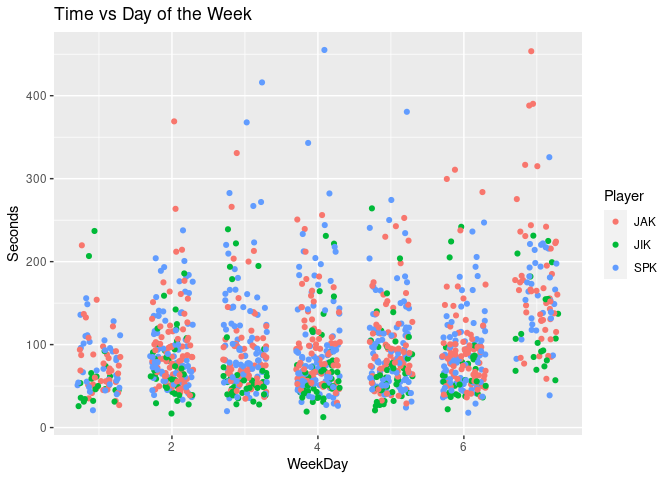
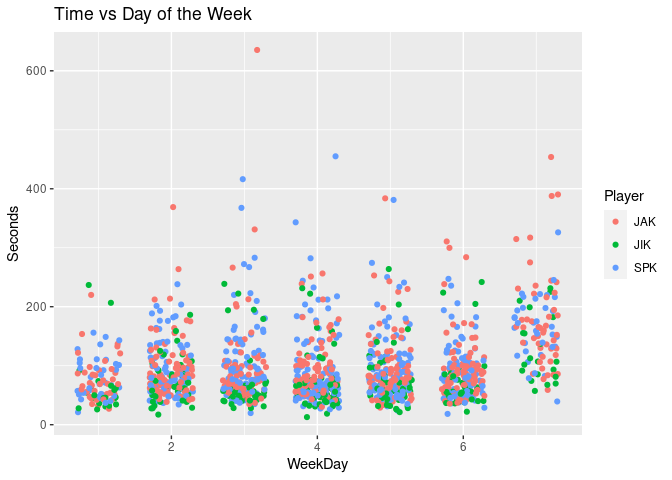
Fixed up assert tests, added MBH as player

diff --git a/analysis/nyt_mini_crossword.md b/analysis/nyt_mini_crossword.md
@@ -1,10 +1,11 @@
 ---
 title: "New York Time Mini Crossword"
 author: "Stephen Kaluzny"
-date: "18 December, 2021"
+date: "13 January, 2022"
 output:
-  html_document:
-    keep_md: true
+  html_document: 
+    keep_md: yes
+    theme: cerulean
 ---
 
 
@@ -105,17 +106,18 @@ First, set some values that are expected in the data:
 
 ```r
 # Current list of players:
-players <- c("SPK", "JAK", "JIK", "BBK", "SKK", "AKK")
+players <- c("SPK", "JAK", "JIK", "BBK", "SKK", "AKK", "MBH")
 # Earliest date:
 first_date <- as.Date("2017-09-25")
 # Upper bound on time (10 minutes = 600 seconds):
-time_bound <- 600
+time_bound <- 700
 ```
 
 Check that Player is one of 5 possible values:
 
 ```r
-d %>% assert(in_set(players), Player) %>% success_logical()
+d %>% assert(in_set(players), Player, success_fun=success_logical,
+  error_fun=error_logical)
 ```
 
 ```
@@ -145,7 +147,8 @@ d %>% group_by(Date) %>% count(Player) %>% verify(n == 1) %>% success_logical()
 Check for proper time values:
 
 ```r
-d %>% assertr::verify(Seconds > 0 & Seconds < time_bound) %>% success_logical()
+d %>% assertr::verify(Seconds > 0 & Seconds < time_bound,
+  success_fun=success_logical, error_fun=error_logical)
 ```
 
 ```
@@ -158,7 +161,8 @@ Check range of dates
 first_date <- as.Date("2017-09-25")
 today <- Sys.Date()
 d %>% 
-  assertr::verify(Date >= first_date & Date <= today) %>% success_logical()
+  assertr::verify(Date >= first_date & Date <= today, success_fun=success_logical,
+    error_fun=error_logical)
 ```
 
 ```
@@ -167,7 +171,7 @@ d %>%
 
 ## Summary Statistics
 
-Current data set has 1298 observations.
+Current data set has 1357 observations.
 
 
 ```r
@@ -177,15 +181,16 @@ d %>% group_by(Player) %>%
 ```
 
 ```
-## # A tibble: 6 × 6
+## # A tibble: 7 × 6
 ##   Player  Mean Median   Min   Max     N
 ##   <chr>  <dbl>  <dbl> <dbl> <dbl> <int>
-## 1 SKK     51     47      21    89     4
+## 1 SKK     60.1   45      21   146     7
 ## 2 AKK     55     55      55    55     1
-## 3 JIK     76.5   59.5    13   264   252
-## 4 SPK    101.    84      18   455   514
-## 5 JAK    103.    86      27   454   460
-## 6 BBK    115.   102      42   350    67
+## 3 JIK     75.0   58.5    13   264   264
+## 4 SPK    101.    83      18   455   528
+## 5 JAK    104.    86      27   635   482
+## 6 BBK    114.   102      42   350    71
+## 7 MBH    400.   378.    202   642     4
 ```
 
 ## Subset the Data
@@ -200,7 +205,7 @@ d <- d %>%
   filter(Player %in% c("SPK", "JAK", "JIK"))
 ```
 
-Now have 1226 observations.
+Now have 1274 observations.
 
 ## Plots
 
@@ -334,13 +339,14 @@ sessionInfo()
 ##  [1] highr_0.9        pillar_1.6.4     bslib_0.3.1      compiler_4.1.2  
 ##  [5] jquerylib_0.1.4  tools_4.1.2      digest_0.6.29    lubridate_1.8.0 
 ##  [9] jsonlite_1.7.2   evaluate_0.14    lifecycle_1.0.1  tibble_3.1.6    
-## [13] gtable_0.3.0     pkgconfig_2.0.3  rlang_0.4.12     cli_3.1.0       
-## [17] DBI_1.1.1        yaml_2.2.1       xfun_0.29        fastmap_1.1.0   
-## [21] withr_2.4.3      stringr_1.4.0    knitr_1.37       hms_1.1.1       
-## [25] generics_0.1.1   vctrs_0.3.8      sass_0.4.0       rprojroot_2.0.2 
-## [29] grid_4.1.2       tidyselect_1.1.1 here_1.0.1       glue_1.6.0      
-## [33] R6_2.5.1         fansi_0.5.0      rmarkdown_2.11   farver_2.1.0    
-## [37] purrr_0.3.4      magrittr_2.0.1   scales_1.1.1     ellipsis_0.3.2  
-## [41] htmltools_0.5.2  assertthat_0.2.1 colorspace_2.0-2 labeling_0.4.2  
-## [45] utf8_1.2.2       stringi_1.7.6    munsell_0.5.0    crayon_1.4.2
+## [13] gtable_0.3.0     pkgconfig_2.0.3  rlang_0.4.12     rstudioapi_0.13 
+## [17] cli_3.1.0        DBI_1.1.2        yaml_2.2.1       xfun_0.29       
+## [21] fastmap_1.1.0    withr_2.4.3      stringr_1.4.0    knitr_1.37      
+## [25] hms_1.1.1        generics_0.1.1   vctrs_0.3.8      sass_0.4.0      
+## [29] rprojroot_2.0.2  grid_4.1.2       tidyselect_1.1.1 here_1.0.1      
+## [33] glue_1.6.0       R6_2.5.1         fansi_1.0.0      rmarkdown_2.11  
+## [37] farver_2.1.0     purrr_0.3.4      magrittr_2.0.1   scales_1.1.1    
+## [41] ellipsis_0.3.2   htmltools_0.5.2  assertthat_0.2.1 colorspace_2.0-2
+## [45] labeling_0.4.2   utf8_1.2.2       stringi_1.7.6    munsell_0.5.0   
+## [49] crayon_1.4.2
 ```
